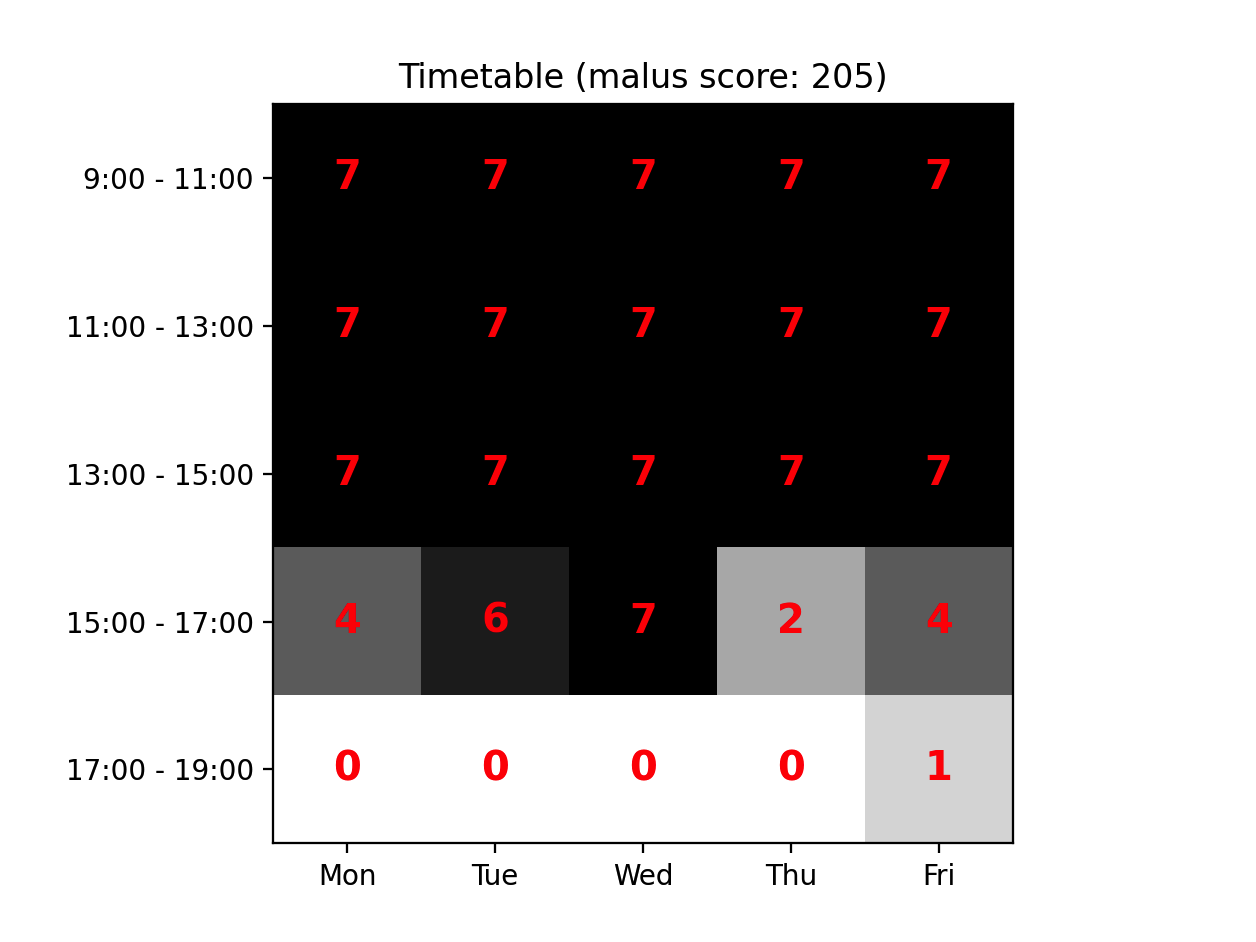
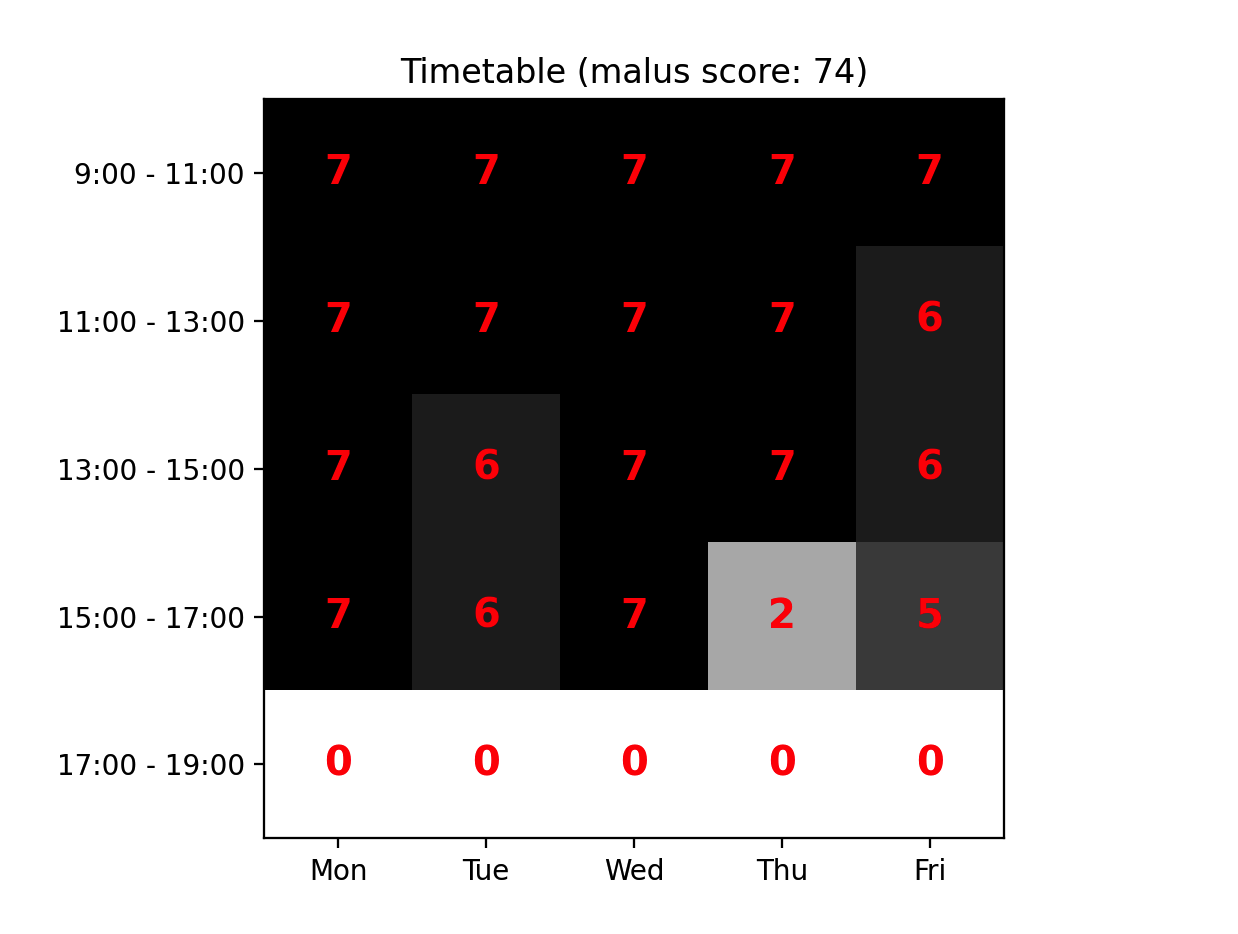
feat: improve greedy algorithm from 204 to 74 malus points

diff --git a/code/algorithms/greedy.py b/code/algorithms/greedy.py
@@ -144,8 +144,8 @@ class Greedy(Algorithm):
             key=lambda possibility: (
                 possibility['total_violations'],
                 possibility['malus_score'],
-                possibility['timeslot'],
                 possibility['weekday'],
+                possibility['timeslot'],
             )
         )
 
@@ -196,8 +196,7 @@ class Greedy(Algorithm):
 
 class RandomGreedy(Greedy):
     """
-    Random greedy implementation which takes random events,
-    rather than the best one.
+    Random greedy implementation which takes random timeslot possibilites.
     """
 
     def find_timeslot_possibility(self, event: Event) -> dict[str, Any]:

diff --git a/code/algorithms/hillclimber.py b/code/algorithms/hillclimber.py
@@ -1,7 +1,7 @@
 import copy
 import logging
 import random
-from code.algorithms.greedy import RandomGreedy
+from code.algorithms.greedy import Greedy
 import matplotlib.pyplot as plt
 
 from code.entities.event import Event
@@ -10,7 +10,7 @@ from code.entities.timetable import Timetable
 from code.utils.enums import Weekdays
 
 
-class HillClimber(RandomGreedy):
+class HillClimber(Greedy):
     """
     Hill climber algorithm implementation which grabs a random state and accepts
     it if it is equally good or better than the previous state.

diff --git a/docs/3-greedy-algorithm/README.md b/docs/3-greedy-algorithm/README.md
@@ -11,14 +11,14 @@ De pseudo code voor mijn constructieve algoritme is als volgt:
    vak)
 -  zolang er activiteiten zijn die ingeplant moeten worden:
     - pak de eerste activiteit
-    - vind het beste tijdslot (gesorteerd op aantal violations + maluspunten + tijdslot + dag vd week)
+    - vind het beste tijdslot (gesorteerd op aantal violations + maluspunten + dag vd week + tijdslot)
     - plaats de activiteit in de eerste de beste oplossing
 
 Ook bedacht ik mij dat het logischer zou zijn om van links naar rechts in te
 plannen, in plaats van boven naar onder, zodat eerst de tijdsloten van 9 uur
-ingevuld worden voor elke dag, dan 11 uur, dan 15 uur etc. Dit gaf ook een iets
-betere malus score en dit zorgt er ook voor dat het aantal ingeplande 17:00 -
-19:00 tijdsloten minder wordt.
+ingevuld worden voor elke dag, dan 11 uur, dan 15 uur etc, maar helaas gaf dit
+een veel slechter resultaat. Van boven naar onder geeft een malus score van 74
+en van links naar rechts geeft een malus score van 205.
 
 Het greedy algoritme berekent de beste optie voor een activiteit door de deze in
 elk tijdslot in te plannen in de zaal die perfect of groot genoeg is qua
@@ -28,15 +28,15 @@ we al deze mogelijkheden op het laagste aantal violations met laagste aantal
 maluspunten en vervolgens nog op vroegste tijdslot en day van de week. Dit geeft
 ons het beste eerst opkomende tijdslot met de minste maluspunten.
 
-Hieronder is een versie te zien zonder violations met 205 maluspunten. Dit toont
+Hieronder is een versie te zien zonder violations met 74 maluspunten. Dit toont
 aan dat het greedy algoritme het aantal maluspunten flink verminderd ten
 opzichte van het random algortime dat 1200+ maluspunten opleverde.
 
 ![heatmap with timetable results](./heatmap.png)
 
-Hieronder nog een grafiek van hoe greedy alle 129 activiteiten inplant in een
-heel rooster. De y-as toont het aantal maluspunten voor het zoveelste event op
-de x-as.
+Hieronder een grafiek van hoe greedy alle 129 activiteiten inplant in een heel
+rooster. De y-as toont het minst aantal maluspunten dat op dat moment gekozen
+kon worden voor het zoveelste event op de x-as.
 
 ![line graph showing 129 events being scheduled](./stats.png)
 
@@ -47,22 +47,18 @@ geïmplementeerd. Toen ik keek naar de grafiek van het greedy algoritme, toen
 viel het mij op dat voor de eerste ±22 events de malus score 0 is. Ik bedacht
 mij direct dat ik dit kan gebruiken in het random greedy algoritme, want als we
 meerdere opties hebben die allemaal 0 zijn in malus score dan kunnen we een
-random optie hiervan pakken. Hoewel ik meerdere opties getest heb, blijkt dit
-toch wel de beste optie te zijn die het aantal maluspunten t.o.v. het resultaat
-van greedy bijna halveert.
+random optie hiervan pakken. Helaas geeft dit nooit een betere optie dan het
+greedy algoritme zelf. Met deze logica was het minimale altijd maluspunten
+altijd boven de 100.
 
-Hieronder is te zien dat het random greedy algoritme bij de eerste ±38
-activiteiten een malus score van 0 blijft behouden, dat is positiever dan
-greedy. Hoe langer het lager blijft, hoe beter!
+Vervolgens heb ik geprobeerd om met bepaalde kansen soms random en soms greedy
+uit te voeren. Hieronder een overzicht van een deel wat ik getest heb:
 
-![random greedy graph](./stats-random-greedy.png)
+| greedy % kans | random % kans | malus score |
+| ------------- | ------------- | ----------- |
+| 100           | 100           | 600+        |
+| 50            | 50            | 300+        |
+| 90            | 10            | 100+        |
+| 98            | 2             | 100+        |
 
-Hieronder is nog een de heatmap te zien waarbij we zien dat de uiteindelijke
-malus score van random greedy 111 was, dat is **46% minder maluspunten** dan
-greedy!
-
-![random greedy heatmap](./heatmap-random-greedy.png)
-
----
-
-:point_right: [Klik hier om naar de volgende fase te gaan](../4-hillclimber/README.md)
+Helaas zijn al deze opties slechter dan het greedy algoritme met 74 maluspunten.

diff --git a/docs/4-hillclimber/README.md b/docs/4-hillclimber/README.md
@@ -27,23 +27,20 @@ bedacht om in de hill climber het volgende te doen:
 - 20% kans om studenten te verwisselen
 
 Bij hill climber beginnen we met "een oplossing". Ik heb de hill climber getest
-op een oplossing van de randomizer, greedy en random greedy om zo het effect te
-kunnen zien voor een oplossing met een hele hoge malus score (randomizer) of een
-oplossing die al redelijk laag begint zoal de greedy of random greedy.
+op een oplossing van de randomizer en greedy om zo het effect te kunnen zien
+voor een oplossing met een hele hoge malus score (randomizer) of een oplossing
+die heel laag begint (greedy).
 
-Hieronder is te zien hoe de hill climber te werk gaat voor alle algoritmen. Naar
-mate het aantal iteraties toe neemt, wordt de som van violations en maluspunten
-minder en minder bij elk algoritme. Bij elk algoritme was het local optimum
-bereikt.
+Hieronder is te zien hoe de hill climber te werk gaat voor alle algoritmen. Bij
+elk algoritme was het local optimum bereikt. Naar mate het aantal iteraties toe
+neemt, wordt de som van violations en maluspunten minder en minder bij elk
+algoritme.
 
 ![hill climber based using randomizer solution](./hillclimber-randomizer.png)
 
 ![hill climber based using greedy solution](./hillclimber-greedy.png)
 
-![hill climber based using random greedy solution](./hillclimber-random-greedy.png)
-
 Uit bovenstaande drie resultaten voor deze algoritmen kunnen we concluderen dat
 de hill climber erg effectief is in het minimaliseren van de maluspunten,
-ongeacht hoe hoog het begint. De randomizer begon met 1272 maluspunten, greedy
-met 205 en random greedy met 98 en vervolgens zijn ze allemaal gestopt op 50
-maluspunten of minder.
+ongeacht hoe hoog het begint. De randomizer begon met 1272 maluspunten en greedy
+met 74. Uiteindelijk zijn ze beide gestopt op 50 maluspunten of minder.
